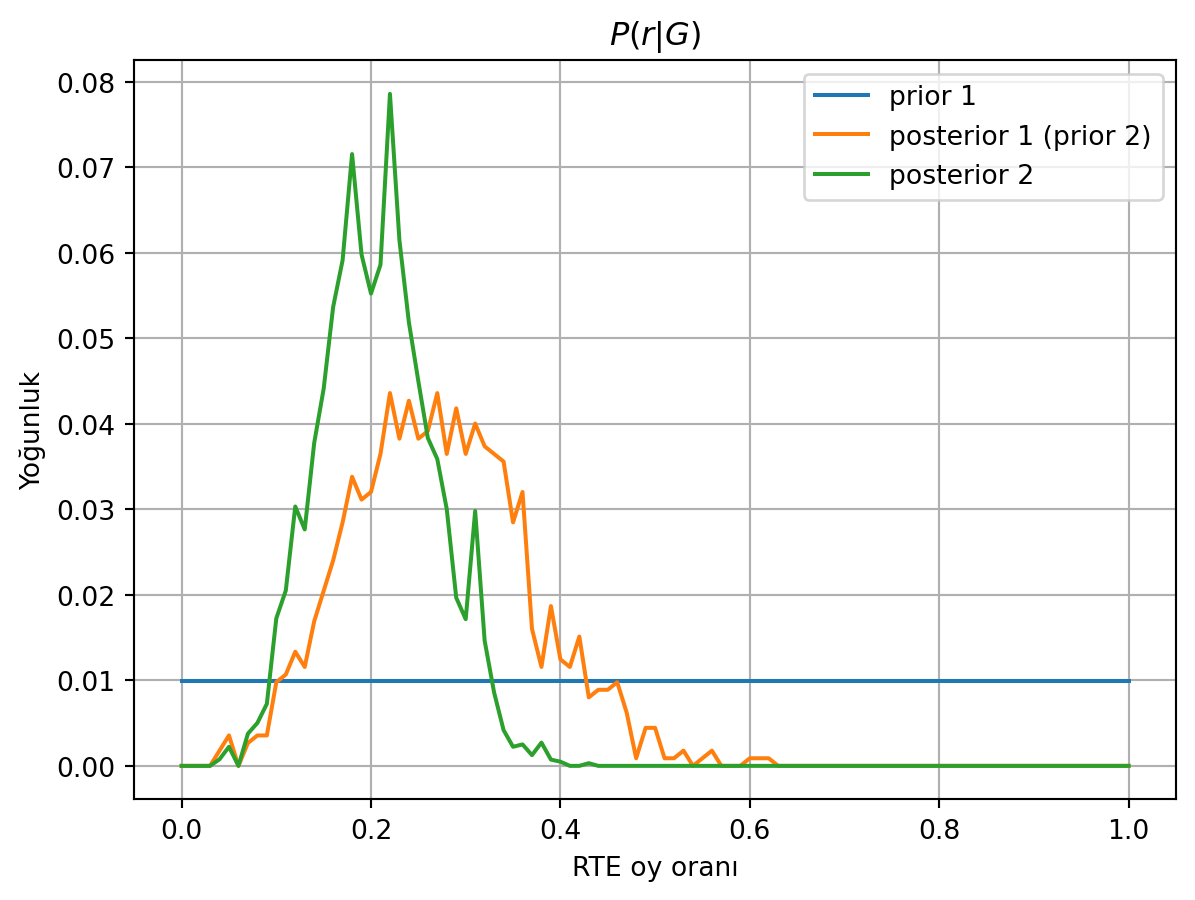
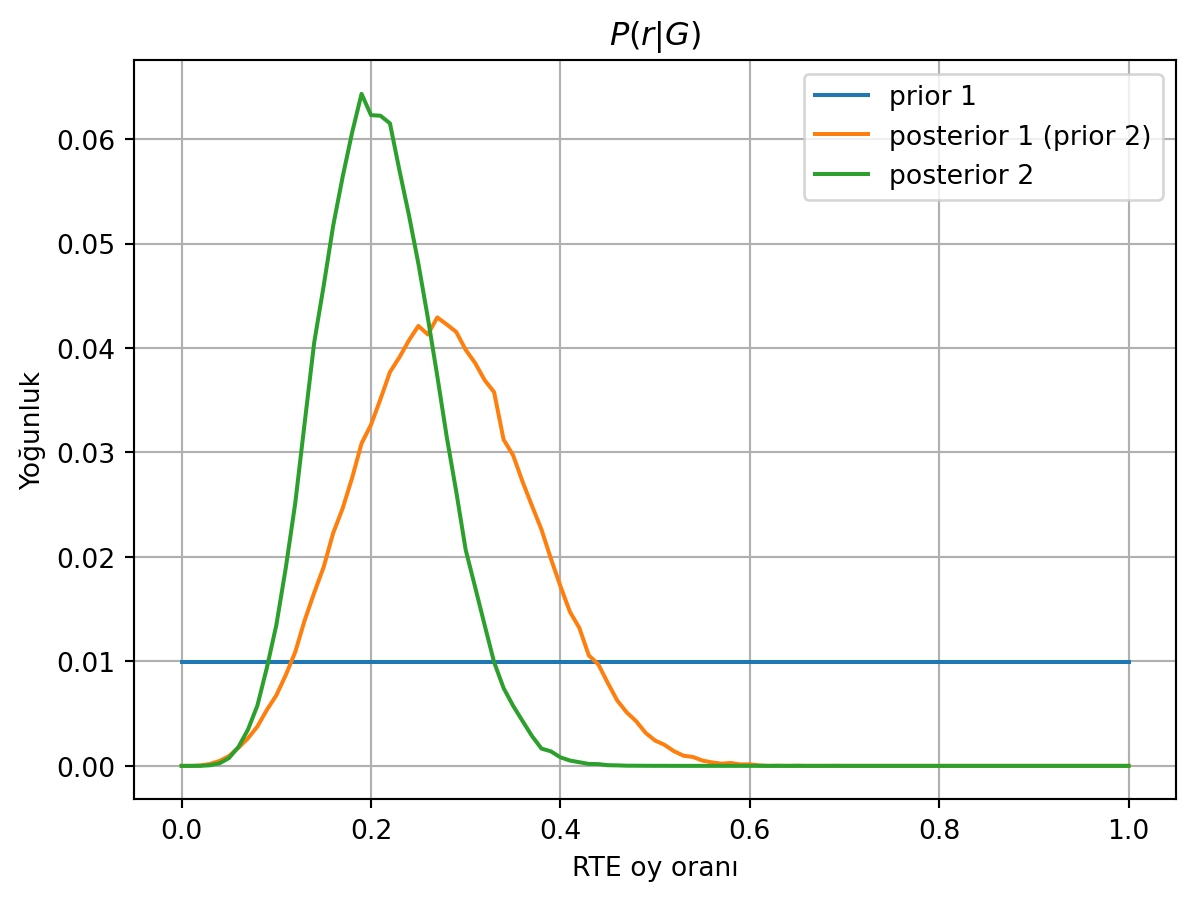
Built site for gh-pages

diff --git a/posts/en/2023/combining-forecasts/index.html b/posts/en/2023/combining-forecasts/index.html
@@ -174,11 +174,11 @@ ul.task-list li input[type="checkbox"] {
 <p>However, sometimes even the best algorithm is not good enough.</p>
 <div class="page-columns page-full"><p>Furthermore, an algorithm that looks less accurate under some conditions may be superior under other conditions. Therefore, it might be better to use a combination of these algorithms, especially in the context of time-series forecasting. Additionally, practitioners observe that even the most sophisticated algorithms are frequently outperformed by simple ones. Instead of chasing The One Big algorithm that generates forecasts with very little error, combining several weak algorithms in simple ways, such as averaging, seems to be the better approach<a href="#fn1" class="footnote-ref" id="fnref1" role="doc-noteref"><sup>1</sup></a>.</p><div class="no-row-height column-margin column-container"><li id="fn1"><p><sup>1</sup>&nbsp;Armstrong, J. S. (2001). Combining forecasts. In: J. S. Armstrong (Ed.), Principles of Forecasting: A Handbook for Researchers and Practitioners, Norwell: Kluwer, pp.417-439.</p></li></div></div>
 <p>For the rest of this post, we will assume that a set of forecasts is given. We don’t particularly care where they come from; they can be coming out of crystal balls for all we care. We will only discuss different ways to combine them, optionally adding some extra features.</p>
-<section id="model-combination-methods" class="level2">
+<section id="model-combination-methods" class="level2 page-columns page-full">
 <h2 class="anchored" data-anchor-id="model-combination-methods">Model combination methods</h2>
 <p>The <strong>Simple Mean</strong> method takes all forecasts for a particular target time and just averages them. No bells, no whistles. No parameters to estimate, no learning from the past. Still, it works surprisingly well. It frequently outperforms more sophisticated combinations.</p>
 <p>The Simple Mean averages the forecasts with equal weight. However, if we have reason to trust some forecasters more than others, we can assign a greater weight to them so that they have a greater influence on the result. Usually, these weights are set using past data by evaluating the error of each forecaster. Forecasters with minor errors would carry greater weight in the result.</p>
-<p>One such formula, the <strong>Minimum Variance</strong> method (also called the <em>Inverse-Variance Weighting</em> method), was proposed by Bates and Granger in 1969. It weights each forecaster according to its past precision, that is, the inverse of its variance. The variance of a forecaster can be estimated as the mean of the squares of its past errors.</p>
+<div class="page-columns page-full"><p>One such formula, the <strong>Minimum Variance</strong> method (also called the <em>Inverse-Variance Weighting</em> method), was proposed by Bates and Granger in 1969<a href="#fn2" class="footnote-ref" id="fnref2" role="doc-noteref"><sup>2</sup></a>. It weights each forecaster according to its past precision, that is, the inverse of its variance. The variance of a forecaster can be estimated as the mean of the squares of its past errors.</p><div class="no-row-height column-margin column-container"><li id="fn2"><p><sup>2</sup>&nbsp;Bates, J.M., Granger, C.W.J. (1969). “The combination of forecasts”. Operations Research Quarterly 20, 451–468.</p></li></div></div>
 <p>It turns out that, when we average forecasts using the inverses of variances, the variance of the result is minimized; hence the name of the method. The same method is also used in portfolio theory to set up a stock portfolio that minimizes risk.</p>
 <p><strong>Regression</strong> is the bread-and-butter of data scientists, and one might naturally use linear regression algorithms to determine the best parameters in the linear combination of forecasters.</p>
 <p>So, how well do they work? Let us illustrate some of these methods on some example data: Hourly wind power production taken from two wind farms over more than two years.</p>
@@ -215,7 +215,7 @@ ul.task-list li input[type="checkbox"] {
 </tr>
 </tbody>
 </table>
-<div class="page-columns page-full"><p>The mean absolute error values have the same units (MW) as the production values. Farm 1 has a greater production capacity; accordingly, the errors there have larger values. We can compare forecast performances within each farm, but we should not compare one forecaster across farms.<a href="#fn2" class="footnote-ref" id="fnref2" role="doc-noteref"><sup>2</sup></a></p><div class="no-row-height column-margin column-container"><li id="fn2"><p><sup>2</sup>&nbsp;Alternatively, we can divide the mean-absolute value by the farm capacity. Then a comparison across farms is reasonable.</p></li></div></div>
+<div class="page-columns page-full"><p>The mean absolute error values have the same units (MW) as the production values. Farm 1 has a greater production capacity; accordingly, the errors there have larger values. We can compare forecast performances within each farm, but we should not compare one forecaster across farms.<a href="#fn3" class="footnote-ref" id="fnref3" role="doc-noteref"><sup>3</sup></a></p><div class="no-row-height column-margin column-container"><li id="fn3"><p><sup>3</sup>&nbsp;Alternatively, we can divide the mean-absolute value by the farm capacity. Then a comparison across farms is reasonable.</p></li></div></div>
 <p>We see that on farm 1, the best performing model is Forecaster 1. The persistence model performs worst in Farm 1 but, interestingly, it is the best forecaster in Farm 2.</p>
 <p>Now, let us combine these models. The simplest combination is <strong>averaging the forecasts</strong> at each time step. The mean-absolute error of this combination is <em>lower than any single forecaster</em>:</p>
 <table class="table">
@@ -385,8 +385,8 @@ ul.task-list li input[type="checkbox"] {
 </section>
 <section id="what-else" class="level2 page-columns page-full">
 <h2 class="anchored" data-anchor-id="what-else">What else?</h2>
-<div class="page-columns page-full"><p>We can try other model combination algorithms as well. For example, <strong>Bayesian Model Averaging</strong> <a href="#fn3" class="footnote-ref" id="fnref3" role="doc-noteref"><sup>3</sup></a> is another method that assigns weights to the sum. It evaluates the <em>Bayesian Information Criterion (BIC)</em> for each forecaster using past data. Given the data, this parameter is related to the probability that this forecaster is the best one. These probabilities are used as the weights for the model combination.</p><div class="no-row-height column-margin column-container"><li id="fn3"><p><sup>3</sup>&nbsp;Hinne M, Gronau QF, van den Bergh D, Wagenmakers E-J. A Conceptual Introduction to Bayesian Model Averaging. Advances in Methods and Practices in Psychological Science. 2020;3(2):200-215.</p></li></div></div>
-<div class="page-columns page-full"><p>We can assume that the weights are not constant but change over time. We can evaluate the weights only within a fixed time window, say, a few weeks before each target time. Then we can shift the window as we go along. Timmermann <a href="#fn4" class="footnote-ref" id="fnref4" role="doc-noteref"><sup>4</sup></a> lists several such methods.</p><div class="no-row-height column-margin column-container"><li id="fn4"><p><sup>4</sup>&nbsp;Timmermann, A. (2006). Forecast combinations, in Elliott G., Granger C. W. J. and Timmermann A. (eds), Handbook of Economic Forecasting, North-Holland, Amsterdam, pp.&nbsp;135–196.</p></li></div></div>
+<div class="page-columns page-full"><p>We can try other model combination algorithms as well. For example, <strong>Bayesian Model Averaging</strong> <a href="#fn4" class="footnote-ref" id="fnref4" role="doc-noteref"><sup>4</sup></a> is another method that assigns weights to the sum. It evaluates the <em>Bayesian Information Criterion (BIC)</em> for each forecaster using past data. Given the data, this parameter is related to the probability that this forecaster is the best one. These probabilities are used as the weights for the model combination.</p><div class="no-row-height column-margin column-container"><li id="fn4"><p><sup>4</sup>&nbsp;Hinne M, Gronau QF, van den Bergh D, Wagenmakers E-J. A Conceptual Introduction to Bayesian Model Averaging. Advances in Methods and Practices in Psychological Science. 2020;3(2):200-215.</p></li></div></div>
+<div class="page-columns page-full"><p>We can assume that the weights are not constant but change over time. We can evaluate the weights only within a fixed time window, say, a few weeks before each target time. Then we can shift the window as we go along. Timmermann <a href="#fn5" class="footnote-ref" id="fnref5" role="doc-noteref"><sup>5</sup></a> lists several such methods.</p><div class="no-row-height column-margin column-container"><li id="fn5"><p><sup>5</sup>&nbsp;Timmermann, A. (2006). Forecast combinations, in Elliott G., Granger C. W. J. and Timmermann A. (eds), Handbook of Economic Forecasting, North-Holland, Amsterdam, pp.&nbsp;135–196.</p></li></div></div>
 <p>However, going for more and more sophisticated combination algorithms may not always be useful. In many practical problems, it turns out that the Simple Mean is the best combination method (in the sense of minimum error). More complicated combination methods do not significantly reduce the error metric; they may even result in a bigger error. This observation is called the <strong>Forecast Combination Puzzle</strong>.</p>
 <p>The main reason is that the weights of forecasters are not known beforehand, but are estimated from past data. This process itself introduces its own biases and errors. If the error variances of individual forecasters are close to each other, the weight estimation error will be dominant and throw us off course. To avoid this problem, Timmermann suggests using the Simple Mean, unless there is a reason to think that the error variance of forecasters is significantly different.</p>
 <p>This brings us back to <strong>Occam’s Razor</strong>: Start simple, and improve only if necessary. Clever and sophisticated algorithms may look sexy, but simplest methods usually perform the best.</p>

diff --git a/posts/tr/2023/secim-sandiginda-bayes/index.html b/posts/tr/2023/secim-sandiginda-bayes/index.html
@@ -274,7 +274,7 @@ pre > code.sourceCode > span > a:first-child::before { text-decoration: underlin
 <details>
 <summary>Code</summary>
 <div class="sourceCode cell-code" id="cb8"><pre class="sourceCode python code-with-copy"><code class="sourceCode python"><span id="cb8-1"><a href="#cb8-1" aria-hidden="true" tabindex="-1"></a>r <span class="op">=</span> np.linspace(<span class="dv">0</span>, <span class="dv">1</span>, <span class="dv">101</span>)</span>
-<span id="cb8-2"><a href="#cb8-2" aria-hidden="true" tabindex="-1"></a>L <span class="op">=</span> [olabilirlik(rr, oy_sayısı<span class="op">=</span><span class="dv">100</span>, deneme<span class="op">=</span><span class="dv">100</span>, gözlenen_uzunluk<span class="op">=</span><span class="dv">2</span>) <span class="cf">for</span> rr <span class="kw">in</span> r]</span>
+<span id="cb8-2"><a href="#cb8-2" aria-hidden="true" tabindex="-1"></a>L <span class="op">=</span> [olabilirlik(rr, oy_sayısı<span class="op">=</span><span class="dv">100</span>, deneme<span class="op">=</span><span class="dv">10000</span>, gözlenen_uzunluk<span class="op">=</span><span class="dv">2</span>) <span class="cf">for</span> rr <span class="kw">in</span> r]</span>
 <span id="cb8-3"><a href="#cb8-3" aria-hidden="true" tabindex="-1"></a>plt.plot(r, L)</span>
 <span id="cb8-4"><a href="#cb8-4" aria-hidden="true" tabindex="-1"></a>plt.xlabel(<span class="st">"RTE oy oranı"</span>)</span>
 <span id="cb8-5"><a href="#cb8-5" aria-hidden="true" tabindex="-1"></a>plt.ylabel(<span class="st">"Olabilirlik"</span>)</span>
@@ -312,7 +312,7 @@ pre > code.sourceCode > span > a:first-child::before { text-decoration: underlin
 <span id="cb9-3"><a href="#cb9-3" aria-hidden="true" tabindex="-1"></a>prior <span class="op">/=</span> <span class="bu">sum</span>(prior) <span class="co"># normalizasyon</span></span>
 <span id="cb9-4"><a href="#cb9-4" aria-hidden="true" tabindex="-1"></a></span>
 <span id="cb9-5"><a href="#cb9-5" aria-hidden="true" tabindex="-1"></a><span class="co"># her oy oranı için olabilirliği hesapla</span></span>
-<span id="cb9-6"><a href="#cb9-6" aria-hidden="true" tabindex="-1"></a>L <span class="op">=</span> [olabilirlik(rr, oy_sayısı<span class="op">=</span><span class="dv">100</span>, deneme<span class="op">=</span><span class="dv">100</span>, gözlenen_uzunluk<span class="op">=</span><span class="dv">2</span>) <span class="cf">for</span> rr <span class="kw">in</span> r]</span>
+<span id="cb9-6"><a href="#cb9-6" aria-hidden="true" tabindex="-1"></a>L <span class="op">=</span> [olabilirlik(rr, oy_sayısı<span class="op">=</span><span class="dv">100</span>, deneme<span class="op">=</span><span class="dv">10000</span>, gözlenen_uzunluk<span class="op">=</span><span class="dv">2</span>) <span class="cf">for</span> rr <span class="kw">in</span> r]</span>
 <span id="cb9-7"><a href="#cb9-7" aria-hidden="true" tabindex="-1"></a></span>
 <span id="cb9-8"><a href="#cb9-8" aria-hidden="true" tabindex="-1"></a><span class="co"># her oy oranı için sonsal olasılığı hesapla</span></span>
 <span id="cb9-9"><a href="#cb9-9" aria-hidden="true" tabindex="-1"></a>posterior <span class="op">=</span> L<span class="op">*</span>prior</span>
@@ -377,7 +377,7 @@ Ortalama değer:  0.17
 <span id="cb12-15"><a href="#cb12-15" aria-hidden="true" tabindex="-1"></a><span class="bu">print</span>(<span class="ss">f"%90 yoğunluk aralığı: </span><span class="sc">{</span>r[(<span class="fl">0.05</span><span class="op">&lt;</span>np.cumsum(posterior))][<span class="dv">0</span>]<span class="sc">}</span><span class="ss">  - </span><span class="sc">{</span>r[(np.cumsum(posterior)<span class="op">&lt;</span><span class="fl">0.95</span>)][<span class="op">-</span><span class="dv">1</span>]<span class="sc">}</span><span class="ss">"</span>)</span></code><button title="Copy to Clipboard" class="code-copy-button"><i class="bi"></i></button></pre></div>
 </details>
 <div class="cell-output cell-output-stdout">
-<pre><code>%90 yoğunluk aralığı: 0.07  - 0.24</code></pre>
+<pre><code>%90 yoğunluk aralığı: 0.08  - 0.24</code></pre>
 </div>
 <div class="cell-output cell-output-display">
 <div class="quarto-figure quarto-figure-center">
@@ -401,12 +401,12 @@ Ortalama değer:  0.17
 <div class="sourceCode cell-code" id="cb14"><pre class="sourceCode python code-with-copy"><code class="sourceCode python"><span id="cb14-1"><a href="#cb14-1" aria-hidden="true" tabindex="-1"></a>prior1 <span class="op">=</span> np.ones_like(r)</span>
 <span id="cb14-2"><a href="#cb14-2" aria-hidden="true" tabindex="-1"></a>prior1 <span class="op">/=</span> <span class="bu">sum</span>(prior1)</span>
 <span id="cb14-3"><a href="#cb14-3" aria-hidden="true" tabindex="-1"></a></span>
-<span id="cb14-4"><a href="#cb14-4" aria-hidden="true" tabindex="-1"></a>L1 <span class="op">=</span> [olabilirlik(rr, oy_sayısı<span class="op">=</span><span class="dv">100</span>, deneme<span class="op">=</span><span class="dv">100</span>, gözlenen_uzunluk<span class="op">=</span><span class="dv">3</span>) <span class="cf">for</span> rr <span class="kw">in</span> r]</span>
+<span id="cb14-4"><a href="#cb14-4" aria-hidden="true" tabindex="-1"></a>L1 <span class="op">=</span> [olabilirlik(rr, oy_sayısı<span class="op">=</span><span class="dv">100</span>, deneme<span class="op">=</span><span class="dv">10000</span>, gözlenen_uzunluk<span class="op">=</span><span class="dv">3</span>) <span class="cf">for</span> rr <span class="kw">in</span> r]</span>
 <span id="cb14-5"><a href="#cb14-5" aria-hidden="true" tabindex="-1"></a>posterior1 <span class="op">=</span> L1<span class="op">*</span>prior1</span>
 <span id="cb14-6"><a href="#cb14-6" aria-hidden="true" tabindex="-1"></a>posterior1 <span class="op">/=</span> <span class="bu">sum</span>(posterior1) <span class="co"># normalizasyon</span></span>
 <span id="cb14-7"><a href="#cb14-7" aria-hidden="true" tabindex="-1"></a></span>
 <span id="cb14-8"><a href="#cb14-8" aria-hidden="true" tabindex="-1"></a>prior2 <span class="op">=</span> posterior1</span>
-<span id="cb14-9"><a href="#cb14-9" aria-hidden="true" tabindex="-1"></a>L2 <span class="op">=</span> [olabilirlik(rr, oy_sayısı<span class="op">=</span><span class="dv">100</span>, deneme<span class="op">=</span><span class="dv">100</span>, gözlenen_uzunluk<span class="op">=</span><span class="dv">2</span>) <span class="cf">for</span> rr <span class="kw">in</span> r]</span>
+<span id="cb14-9"><a href="#cb14-9" aria-hidden="true" tabindex="-1"></a>L2 <span class="op">=</span> [olabilirlik(rr, oy_sayısı<span class="op">=</span><span class="dv">100</span>, deneme<span class="op">=</span><span class="dv">10000</span>, gözlenen_uzunluk<span class="op">=</span><span class="dv">2</span>) <span class="cf">for</span> rr <span class="kw">in</span> r]</span>
 <span id="cb14-10"><a href="#cb14-10" aria-hidden="true" tabindex="-1"></a>posterior2 <span class="op">=</span> L2<span class="op">*</span>prior2</span>
 <span id="cb14-11"><a href="#cb14-11" aria-hidden="true" tabindex="-1"></a>posterior2 <span class="op">/=</span> <span class="bu">sum</span>(posterior2) <span class="co"># normalizasyon</span></span>
 <span id="cb14-12"><a href="#cb14-12" aria-hidden="true" tabindex="-1"></a></span>
@@ -447,7 +447,7 @@ Ortalama değer:  0.17
 <div class="sourceCode cell-code" id="cb16"><pre class="sourceCode python code-with-copy"><code class="sourceCode python"><span id="cb16-1"><a href="#cb16-1" aria-hidden="true" tabindex="-1"></a>prior <span class="op">=</span> r<span class="op">**</span><span class="dv">81</span> <span class="op">*</span> (<span class="dv">1</span><span class="op">-</span>r)<span class="op">**</span><span class="dv">276</span></span>
 <span id="cb16-2"><a href="#cb16-2" aria-hidden="true" tabindex="-1"></a>prior <span class="op">/=</span> <span class="bu">sum</span>(prior)</span>
 <span id="cb16-3"><a href="#cb16-3" aria-hidden="true" tabindex="-1"></a></span>
-<span id="cb16-4"><a href="#cb16-4" aria-hidden="true" tabindex="-1"></a>L <span class="op">=</span> [olabilirlik(rr, oy_sayısı<span class="op">=</span><span class="dv">100</span>, deneme<span class="op">=</span><span class="dv">100</span>, gözlenen_uzunluk<span class="op">=</span><span class="dv">2</span>) <span class="cf">for</span> rr <span class="kw">in</span> r]</span>
+<span id="cb16-4"><a href="#cb16-4" aria-hidden="true" tabindex="-1"></a>L <span class="op">=</span> [olabilirlik(rr, oy_sayısı<span class="op">=</span><span class="dv">100</span>, deneme<span class="op">=</span><span class="dv">10000</span>, gözlenen_uzunluk<span class="op">=</span><span class="dv">2</span>) <span class="cf">for</span> rr <span class="kw">in</span> r]</span>
 <span id="cb16-5"><a href="#cb16-5" aria-hidden="true" tabindex="-1"></a>posterior <span class="op">=</span> L<span class="op">*</span>prior</span>
 <span id="cb16-6"><a href="#cb16-6" aria-hidden="true" tabindex="-1"></a>posterior <span class="op">/=</span> <span class="bu">sum</span>(posterior)</span>
 <span id="cb16-7"><a href="#cb16-7" aria-hidden="true" tabindex="-1"></a></span>

diff --git a/blog-tr.html b/blog-tr.html
@@ -71,7 +71,7 @@ ul.task-list li input[type="checkbox"] {
     }
 
     const options = {
-      valueNames: ['listing-image','listing-date','listing-title','listing-subtitle','listing-categories','listing-author','listing-reading-time',{ data: ['index'] },{ data: ['categories'] },{ data: ['listing-date-sort'] },{ data: ['listing-file-modified-sort'] }],
+      valueNames: ['listing-image','listing-date','listing-title','listing-subtitle','listing-categories','listing-reading-time',{ data: ['index'] },{ data: ['categories'] },{ data: ['listing-date-sort'] },{ data: ['listing-file-modified-sort'] }],
       
       searchColumns: ["listing-date","listing-title","listing-author","listing-image","listing-description"],
     };
@@ -198,9 +198,6 @@ ul.task-list li input[type="checkbox"] {
          <option value="listing-date-sort" data-direction="desc">
           Date - Newest
         </option>
-         <option value="listing-author" data-direction="asc">
-          Author
-        </option>
      </select>
   </div>
     <div class="input-group input-group-sm quarto-listing-filter">
@@ -209,7 +206,7 @@ ul.task-list li input[type="checkbox"] {
     </div>
 </div>
 <div class="list quarto-listing-default">
-<div class="quarto-post image-right" data-index="0" data-categories="Bayesian analysis,applied probability" data-listing-date-sort="1686344400000" data-listing-file-modified-sort="1699475757506" data-listing-date-modified-sort="NaN" data-listing-reading-time-sort="8">
+<div class="quarto-post image-right" data-index="0" data-categories="Bayesian analysis,applied probability" data-listing-date-sort="1686344400000" data-listing-file-modified-sort="1699525662796" data-listing-date-modified-sort="NaN" data-listing-reading-time-sort="8">
 <div class="thumbnail">
 <p><a href="./posts/tr/2023/secim-sandiginda-bayes/index.html"> <img src="./posts/tr/2023/secim-sandiginda-bayes/secimsandigindabayes_oysayimi.jpg" class="thumbnail-image"> </a></p>
 </div>
@@ -236,9 +233,6 @@ applied probability
 <a href="./posts/tr/2023/secim-sandiginda-bayes/index.html">
 <div class="listing-date">
 Jun 10, 2023
-</div>
-<div class="listing-author">
-Kaan Öztürk
 </div>
 <div class="listing-reading-time">
 8 min

diff --git a/blog-en.html b/blog-en.html
@@ -71,7 +71,7 @@ ul.task-list li input[type="checkbox"] {
     }
 
     const options = {
-      valueNames: ['listing-image','listing-date','listing-title','listing-subtitle','listing-categories','listing-author','listing-reading-time',{ data: ['index'] },{ data: ['categories'] },{ data: ['listing-date-sort'] },{ data: ['listing-file-modified-sort'] }],
+      valueNames: ['listing-image','listing-date','listing-title','listing-subtitle','listing-categories','listing-reading-time',{ data: ['index'] },{ data: ['categories'] },{ data: ['listing-date-sort'] },{ data: ['listing-file-modified-sort'] }],
       
       searchColumns: [],
     };
@@ -196,9 +196,6 @@ ul.task-list li input[type="checkbox"] {
         </option>
          <option value="listing-date-sort" data-direction="desc">
           Date - Newest
-        </option>
-         <option value="listing-author" data-direction="asc">
-          Author
         </option>
      </select>
   </div>

diff --git a/blog.html b/blog.html
@@ -182,7 +182,7 @@ ul.task-list li input[type="checkbox"] {
 
 <div class="quarto-listing quarto-listing-container-default" id="listing-listing">
 <div class="list quarto-listing-default">
-<div class="quarto-post image-right" data-index="0" data-categories="Bayesian analysis,applied probability" data-listing-date-sort="1686344400000" data-listing-file-modified-sort="1699475757506" data-listing-date-modified-sort="NaN" data-listing-reading-time-sort="8">
+<div class="quarto-post image-right" data-index="0" data-categories="Bayesian analysis,applied probability" data-listing-date-sort="1686344400000" data-listing-file-modified-sort="1699525662796" data-listing-date-modified-sort="NaN" data-listing-reading-time-sort="8">
 <div class="thumbnail">
 <p><a href="./posts/tr/2023/secim-sandiginda-bayes/index.html"> <img src="./posts/tr/2023/secim-sandiginda-bayes/secimsandigindabayes_oysayimi.jpg" class="thumbnail-image"> </a></p>
 </div>
